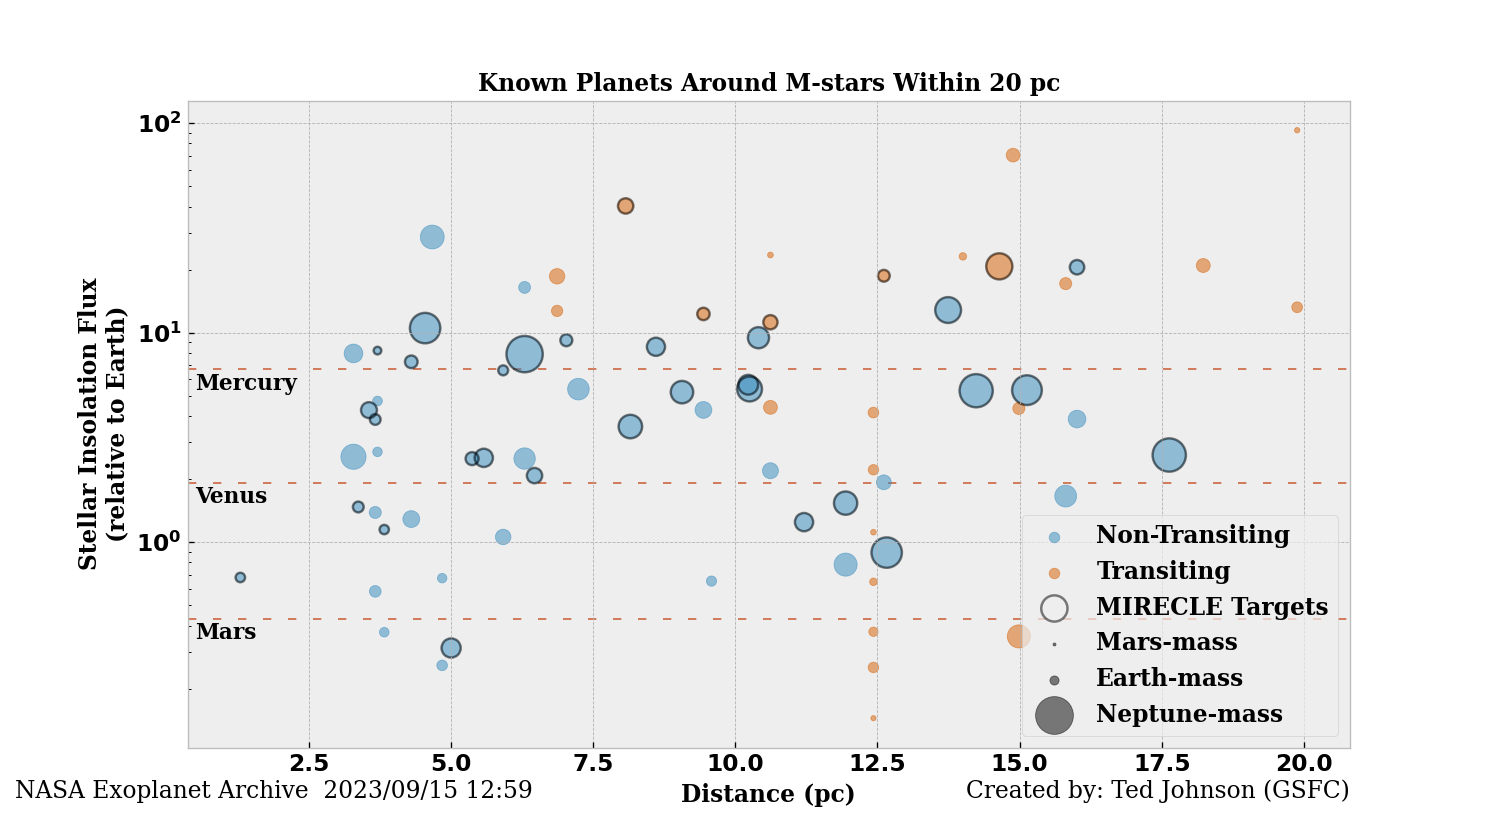
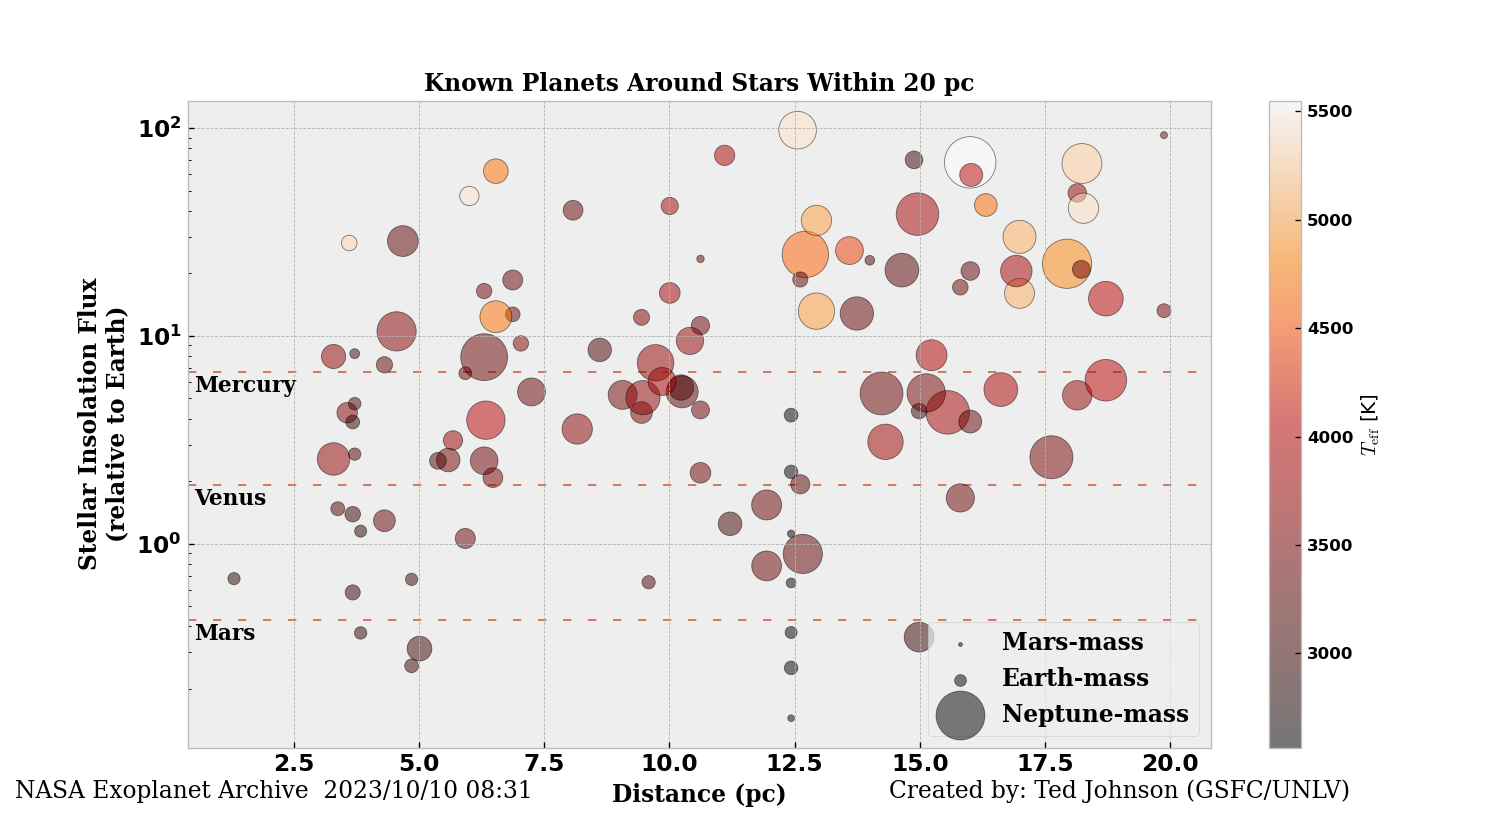
teff based figure for Avi

diff --git a/make_figure.py b/make_figure.py
@@ -16,6 +16,9 @@ from datetime import datetime
 from astropy import units as u, constants as c
 import requests
 
+MAX_TEFF = 20000 # K
+MAX_DIST = 20 # pc
+
 def size(mass:float):
     """
     Determine marker size based on the planet's mass
@@ -30,7 +33,7 @@ def size(mass:float):
     float
         The marker size.
     """
-    k = 30 # scales size of markers
+    k = 50 # scales size of markers
     return k*mass
 
 if __name__ in '__main__':
@@ -39,7 +42,7 @@ if __name__ in '__main__':
     chdir(WORKING_DIRECTORY)
 
     # Build the query
-    q = 'select * from pscomppars where st_teff < 3700 and sy_dist < 20'
+    q = f'select * from pscomppars where st_teff < {MAX_TEFF} and sy_dist < {MAX_DIST}'
     query = '+'.join(q.split(' '))+'&format=csv'
     url = f'https://exoplanetarchive.ipac.caltech.edu/TAP/sync?query={query}'
     print(f'Querying {url}')
@@ -74,7 +77,7 @@ if __name__ in '__main__':
         date = file.readline()[1:-1]
     dist_from_bottom = 0.05
     fig.text(0.01,dist_from_bottom,'NASA Exoplanet Archive '+date,fontfamily='serif',fontsize=14,weight='normal')
-    fig.text(0.9,dist_from_bottom, 'Created by: Ted Johnson (GSFC)',fontfamily='serif',fontsize=14,ha='right',weight='normal')
+    fig.text(0.9,dist_from_bottom, 'Created by: Ted Johnson (GSFC/UNLV)',fontfamily='serif',fontsize=14,ha='right',weight='normal')
 
     alpha=0.5 # transparency
     k = 20 # scales size of markers
@@ -87,22 +90,21 @@ if __name__ in '__main__':
 
     x_kw = 'sy_dist'
     y_kw = 'pl_approx_insol'
+    c_kw = 'st_teff'
     size_kw = 'pl_bmasse'
 
     # get some demographics for Ravi
     within_10 = df['sy_dist'] <= 10
     within_20 = df['sy_dist'] <= 20
-    print(f'There are {len(df.loc[~is_transit & keep & within_10])} non-transiting exoplanets within 10 pc (Porbit < 20 days, Mass < 20 Mearth, Insolation < 100 Iearth)')
-    print(f'There are {len(df.loc[~is_transit & keep & within_20])} non-transiting exoplanets within 20 pc (Porbit < 20 days, Mass < 20 Mearth, Insolation < 100 Iearth)')
-    print(f'There are {len(df.loc[is_transit & keep & within_10])} transiting exoplanets within 10 pc (Porbit < 20 days, Mass < 20 Mearth, Insolation < 100 Iearth)')
-    print(f'There are {len(df.loc[is_transit & keep & within_20])} transiting exoplanets within 20 pc (Porbit < 20 days, Mass < 20 Mearth, Insolation < 100 Iearth)')
+    print(f'There are {len(df.loc[keep & within_10])} exoplanets within 10 pc (Porbit < 20 days, Mass < 20 Mearth, Insolation < 100 Iearth)')
+    print(f'There are {len(df.loc[keep & within_20])} exoplanets within 20 pc (Porbit < 20 days, Mass < 20 Mearth, Insolation < 100 Iearth)')
 
-    ax.scatter(df.loc[~is_transit & keep,x_kw],(df.loc[~is_transit & keep,y_kw]),label='Non-Transiting',c='C0',s=size(df.loc[~is_transit & keep,size_kw]),alpha=alpha)
-    ax.scatter(df.loc[is_transit & keep,x_kw],(df.loc[is_transit & keep,y_kw]),label='Transiting',c='C4',s=size(df.loc[is_transit & keep,size_kw]),alpha=alpha)
-    ax.scatter(df.loc[in_mirecle & keep, x_kw],df.loc[in_mirecle & keep, y_kw],label='MIRECLE Targets',facecolors='none',edgecolors='k',linewidth=1.5,s=size(df.loc[in_mirecle & keep, size_kw]),alpha=alpha)
+    im = ax.scatter(df.loc[keep,x_kw],df.loc[keep,y_kw],c=df.loc[keep,c_kw],cmap='gist_heat',s=size(df.loc[keep,size_kw]),alpha=alpha,edgecolors='k')
     ax.scatter(np.nan,-1,label='Mars-mass',c='k',s=size(0.107),alpha=alpha)
     ax.scatter(np.nan,-1,label='Earth-mass',c='k',s=size(1),alpha=alpha)
     ax.scatter(np.nan,-1,label='Neptune-mass',c='k',s=size(17.15),alpha=alpha)
+    
+    fig.colorbar(im,ax=ax,label=r'$T_{\mathrm{eff}}$ [K]',pad=0.05,fraction=0.07)
 
     lw=1
     ls=(0,(5,10))
@@ -131,13 +133,13 @@ if __name__ in '__main__':
     ax.set_yscale('log')
 
     lgnd = ax.legend(prop={'size':14,'family':'serif'},framealpha=0.7,loc='lower right')
-    legend_marker_size = 40
-    lgnd.legendHandles[0]._sizes = [legend_marker_size]
-    lgnd.legendHandles[1]._sizes = [legend_marker_size]
+    # legend_marker_size = 40
+    # lgnd.legend_handles[0]._sizes = [legend_marker_size]
+    # lgnd.legend_handles[1]._sizes = [legend_marker_size]
 
     ax.set_xlabel('Distance (pc)',fontfamily='serif',fontsize=14,fontweight='bold')
     ax.set_ylabel('Stellar Insolation Flux\n(relative to Earth)',fontfamily='serif',fontsize=14,fontweight='bold')
     # ax.set_yticks([0.5,0,5,10,50,100])
-    ax.set_title('Known Planets Around M-stars Within 20 pc',fontsize=14,fontfamily='serif',fontweight='bold')
+    ax.set_title(f'Known Planets Around Stars Within {MAX_DIST} pc',fontsize=14,fontfamily='serif',fontweight='bold')
     fig.savefig('nearby_mdwarfs_insolation.png',dpi=120)
     # ax.get_yticks()
